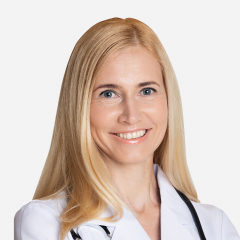
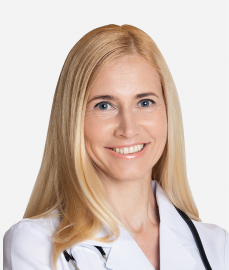
Update doctor card

Changed region(s): [[0.0, 0.0583, 1.0, 1.0], [0.5808, 0.6125, 0.6114, 0.6417]]

diff --git a/src/assets/styles/modules/doctor-card.scss b/src/assets/styles/modules/doctor-card.scss
@@ -1,22 +1,6 @@
 .doctor-card {
   $comp: &;
 
-  &--col {
-    @media (min-width: $breakpoint) {
-      #{$comp}__row {
-        display: block;
-      }
-
-      #{$comp}__col {
-        &:nth-child(2) {
-          margin-top: 15px;
-          margin-left: 0;
-        }
-      }
-    }
-
-  }
-
   &__row {
     display: flex;
   }
@@ -34,61 +18,40 @@
   }
 
   &__frame {
-    $size-d: calc(#{$col-width-d} * 2);
-    $size-m: 90px;
+    $size-d: calc(#{$col-width-d} * 2 - 20px);
+    $size-m: 89px;
 
     flex-shrink: 0;
 
     @media (max-width: $breakpoint - 1px) {
       width: $size-m;
-      height: $size-m;
     }
 
     width: $size-d;
-    height: $size-d;
 
     display: flex;
     align-items: center;
     justify-content: center;
 
     overflow: hidden;
+    border-radius: 10px;
 
     &--size {
 
       &--default {
-        $size-d: 179px;
-        $size-m: 93px;
+        $size-d: 105px;
+        $size-m: 89px;
 
         width: $size-d;
-        height: $size-d;
         @media (max-width: $breakpoint - 1px) {
           width: $size-m;
-          height: $size-m;
         }
       }
 
-      &--md {
-        $size-d: 120px;
-
-        width: $size-d;
-        height: $size-d;
-      }
-
       &--s {
-        $size-d: 82px;
+        $size-d: 69px;
 
         width: $size-d;
-        height: $size-d;
-      }
-    }
-
-    &--radius {
-      &--right {
-        border-radius: 190px 190px 0px 190px;
-      }
-
-      &--left {
-        border-radius: 190px 190px 190px 0px;
       }
     }
   }

diff --git a/src/assets/styles/modules/content.scss b/src/assets/styles/modules/content.scss
@@ -114,10 +114,6 @@
       @media (max-width: $breakpoint - 1px) {
         width: 100%;
       }
-
-      * {
-        padding-left: 0;
-      }
     }
   }
 }
